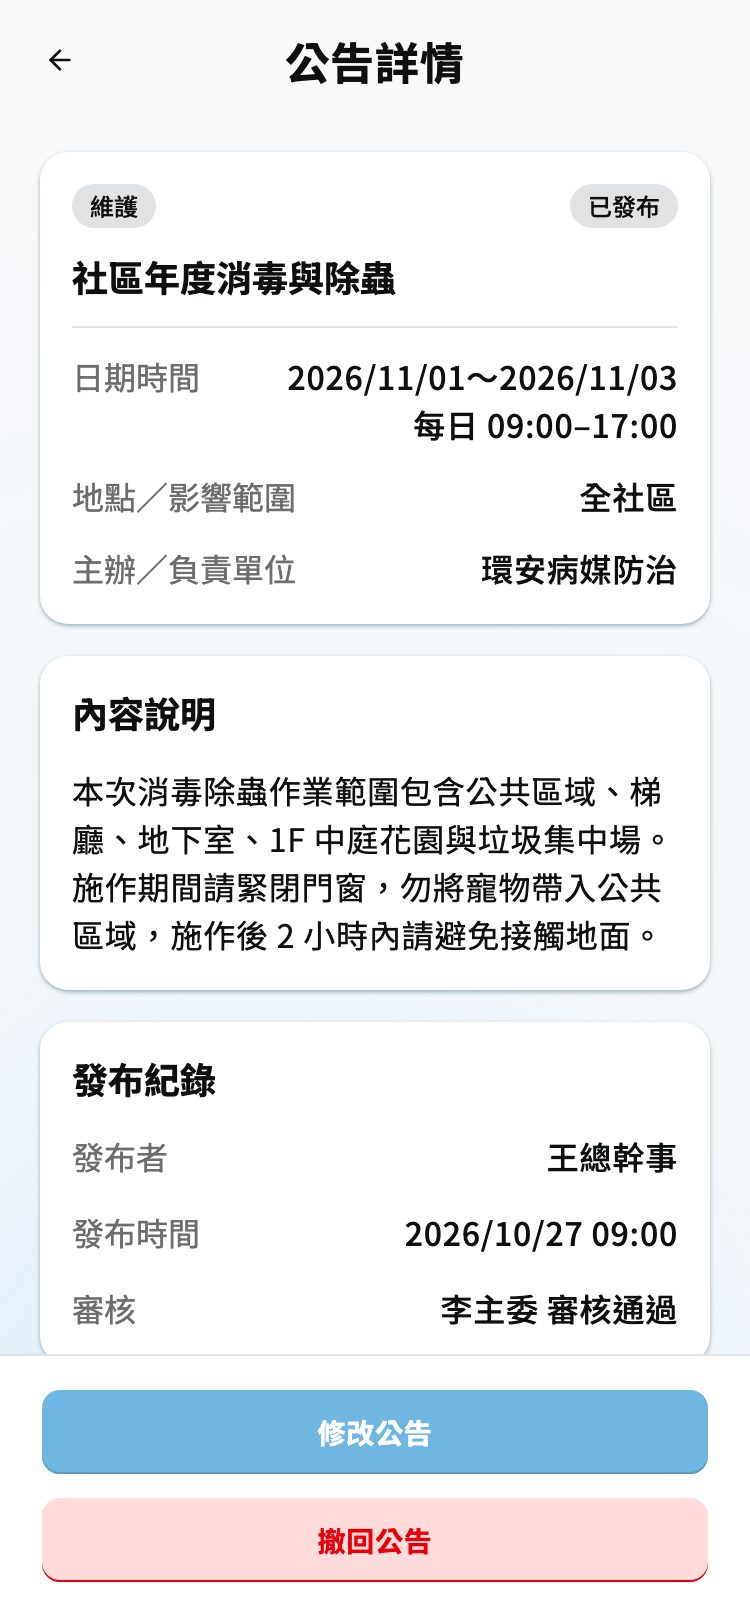
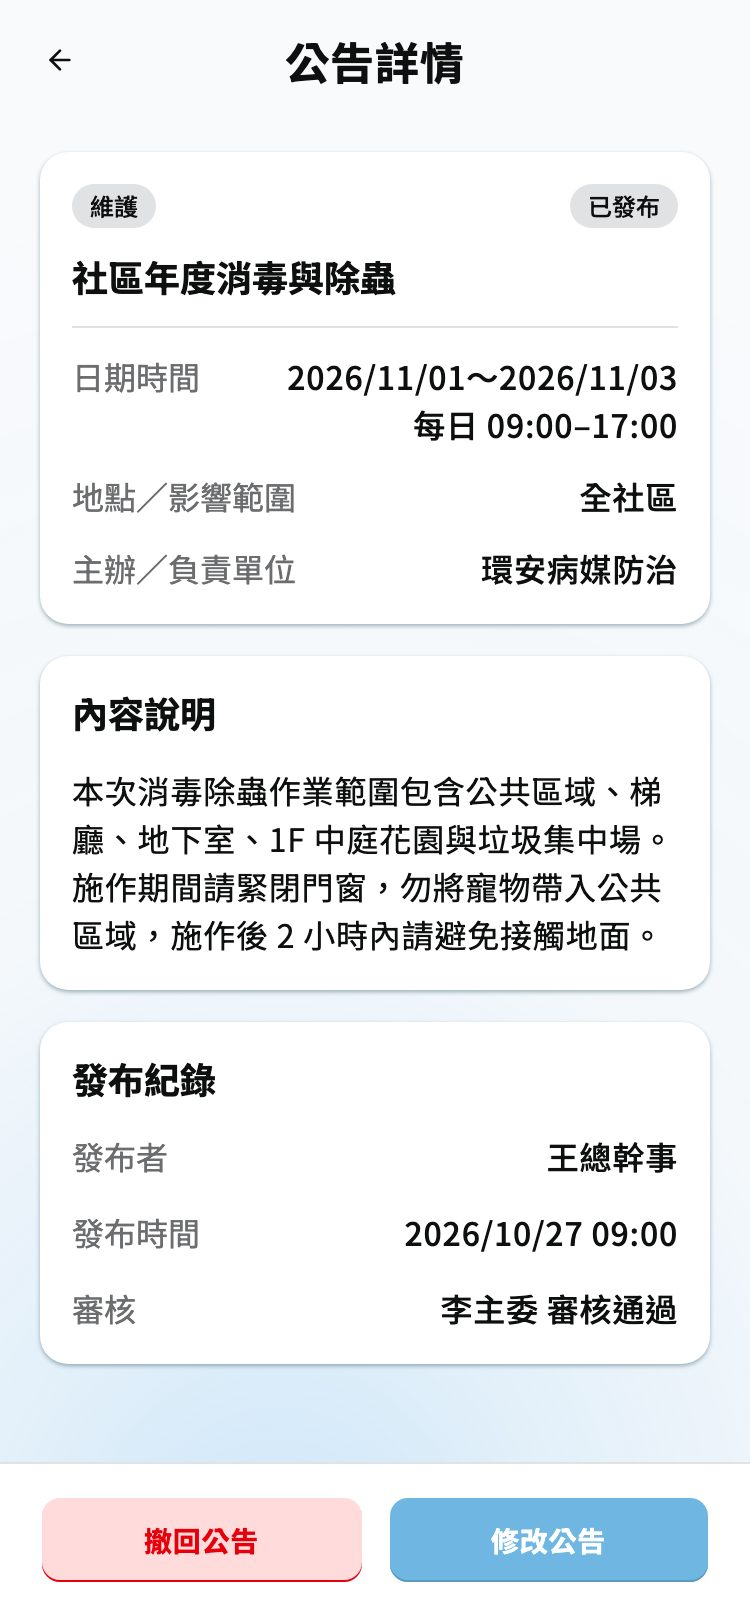
fix: reshoot announcement screenshots and note no drafts for new task

Changed region(s): [[0.0, 0.8313, 0.9507, 0.9852], [0.7053, 0.5542, 0.736, 0.585]]

diff --git a/help/src/content/faqs.js b/help/src/content/faqs.js
@@ -164,14 +164,14 @@ export const FAQS = [
     article: 'join-committee',
   },
   {
-    // 離開前確認＋存成草稿（App #160，2026-10-19 加；住戶沒有存成草稿，2026-10-23）
+    // 離開前確認＋存成草稿（App #160，2026-10-19 加；住戶沒有存成草稿，2026-10-23；新增交辦也沒有，App #193，2026-10-24）
     id: 'leave-draft',
     group: 'trouble',
     roles: ['resident', 'committee', 'staff'],
     question: '填到一半要離開，寫好的會不見嗎？',
     answer: [
       '填到一半按返回或點分頁時，畫面會先問「還沒送出，確定要離開嗎？」。想繼續寫，按「繼續填寫」；按「直接離開」的話，寫好的內容不會保留。',
-      '管委會和管理人員還可以按「存成草稿，晚點再填」：回到同一個表單，寫好的內容會自動帶回來；「我的待辦」也會多一張「未送出」的卡片，點了就能繼續填。',
+      '管委會和管理人員還可以按「存成草稿，晚點再填」：回到同一個表單，寫好的內容會自動帶回來；「我的待辦」也會多一張「未送出」的卡片，點了就能繼續填。新增交辦沒有「存成草稿」，只能選繼續填寫或直接離開。',
     ],
   },
 ]
